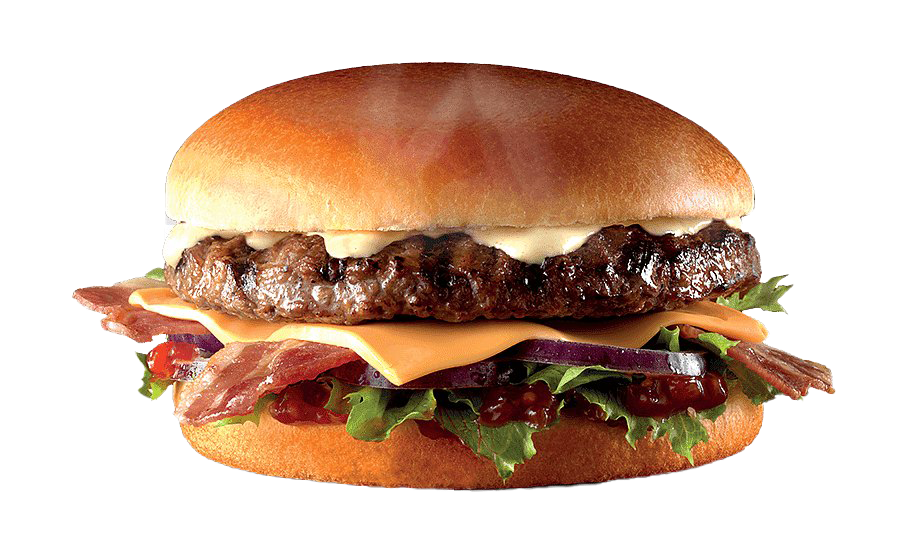
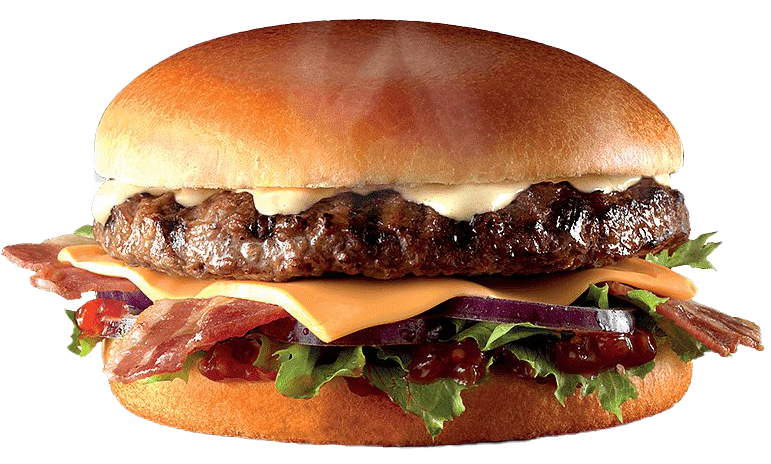
homepage design

diff --git a/J89582/wwwroot/css/index.css b/J89582/wwwroot/css/index.css
@@ -79,18 +79,30 @@
 .top-sell {
     margin: 0 auto;
     text-align: center;
-    padding-bottom: 100px;
+    padding-bottom: 50px;
 }
 
-
-.row-menu {
-    display: grid;
-    grid-template-columns: auto auto auto;
-    grid-gap: 10px;
-    align-content: center;
+.image-container {
+    align-items: center;
+    display: flex;
+    justify-content: center;
 }
 
-.column-menu img {
-    align-content: center;
-    width: 50vh;
+.image-container img{
+    width: 30%;
+    padding: 30px;
+    margin: auto 40px;
+}
+
+.text-container p {
+    text-align: center;
+    font-size: 2.5em;
+    width: 40%;
+}
+
+.text-container {
+    width: 100%;
+    align-items: center;
+    display: flex;
+    justify-content: center;
 }
